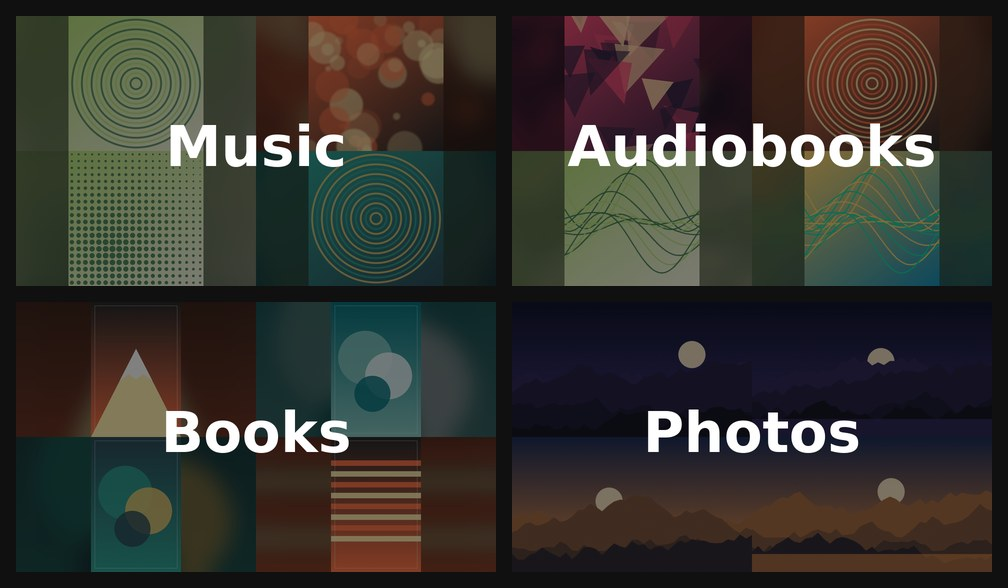
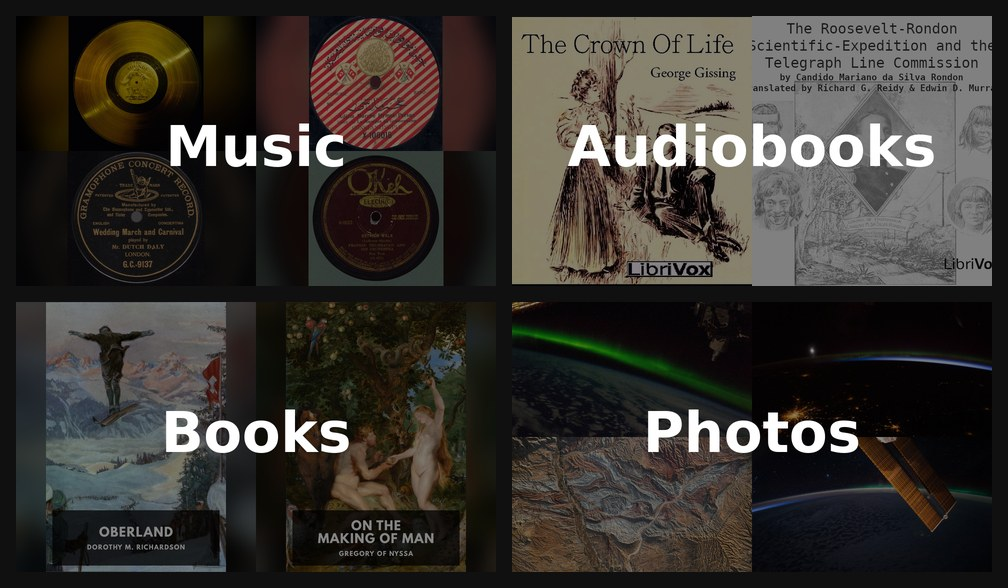
README: example cards from real, openly licensed artwork
Replace the generated example art with public-domain and CC0 images:
1910s-20s record labels and the Voyager Golden Record cover (Wikimedia
Commons, NASA), LibriVox and Standard Ebooks covers, and NASA photographs.
Adds build/fetch_example_art.py (downloads candidates with credits) and
render_examples.py --sources, image credits, and a note on why Books and
Audiobooks use two-tile layouts (titles printed where the card title goes).

diff --git a/build/fetch_example_art.py b/build/fetch_example_art.py
@@ -1,0 +1,188 @@
+#!/usr/bin/env python3
+"""Download openly licensed artwork for the README's example cards, with credits.
+
+    python build/fetch_example_art.py art/
+    python build/fetch_example_art.py art/ --only audiobooks --from-offset 13000   # top up one library
+    python build/render_examples.py out/ --sources art/ --icon-font MaterialIcons-Regular.ttf
+
+Writes art/<library>/*.jpg and art/credits.json (title, source page, licence per image).
+
+Sources, all public domain or CC0:
+- Books: Standard Ebooks covers (CC0; cover paintings are public domain).
+- Audiobooks: LibriVox cover art, hosted on the Internet Archive ("CD cover art ... in the public
+  domain", LibriVox copyright policy).
+- Music: record labels published before 1929 (public domain in the US) and NASA's Voyager
+  Golden Record cover, from Wikimedia Commons.
+- Photos: NASA photographs of Earth (NASA imagery is generally not copyrighted).
+"""
+
+import argparse
+import io
+import json
+import re
+import sys
+import urllib.parse
+import urllib.request
+from pathlib import Path
+
+from PIL import Image
+
+HEADERS = {"User-Agent": "TitleCardsReadme/0.1 (https://github.com/erstenor/jellyfin-plugin-title-cards)"}
+PER_LIBRARY = 10
+MUSIC_FILES = [
+    "File:The Sounds of Earth Record Cover - GPN-2000-001978.jpg",
+    "File:The Sounds of Earth - GPN-2000-001976.jpg",
+    "File:DutchDalyGandTlabel.jpg",
+    "File:Label of salam-e shah 1910.jpg",
+    "File:Jacob Hoffman Doina and Hora label.tif",
+    "File:Pussy Cat Rag Halfway House Orch Label OKeh.jpg",
+    "File:Ostrich Walk Tram Bix Okeh 40822.jpg",
+]
+MUSIC_SEARCH = 'Label of a 78 rpm disc recording "On Honolulu Bay"'
+NASA_QUERIES = ["earth observation landscape", "aurora from space station", "earth from orbit coastline"]
+
+
+def get(url, raw=False):
+    with urllib.request.urlopen(urllib.request.Request(url, headers=HEADERS), timeout=60) as response:
+        data = response.read()
+    return data if raw else json.loads(data)
+
+
+def save(out, library, name, data, credit, credits):
+    image = Image.open(io.BytesIO(data)).convert("RGB")
+    image.thumbnail((1600, 1600))
+    path = out / library / (re.sub(r"[^A-Za-z0-9]+", "-", name).strip("-")[:60] + ".jpg")
+    path.parent.mkdir(parents=True, exist_ok=True)
+    image.save(path, quality=92)
+    credits.setdefault(library, []).append({"file": path.name, **credit})
+    print(f"{library}: {credit['title']}")
+
+
+def commons(titles):
+    query = urllib.parse.urlencode({
+        "action": "query", "format": "json", "titles": "|".join(titles), "prop": "imageinfo",
+        "iiprop": "url|extmetadata", "iiurlwidth": "1600", "iiextmetadatafilter": "LicenseShortName|ObjectName|DateTimeOriginal",
+    })
+    return get("https://commons.wikimedia.org/w/api.php?" + query)["query"]["pages"].values()
+
+
+def music(out, credits):
+    search = get("https://commons.wikimedia.org/w/api.php?" + urllib.parse.urlencode({
+        "action": "query", "format": "json", "list": "search", "srsearch": MUSIC_SEARCH, "srnamespace": "6", "srlimit": "1"}))
+    titles = MUSIC_FILES + [hit["title"] for hit in search["query"]["search"]]
+    for page in commons(titles):
+        info = page["imageinfo"][0]
+        meta = info["extmetadata"]
+        if not meta.get("LicenseShortName", {}).get("value", "").startswith("Public domain"):
+            continue
+        name = re.sub(r"<[^>]+>", "", meta.get("ObjectName", {}).get("value", page["title"][5:]))
+        save(out, "music", name, get(info["thumburl"], raw=True),
+             {"title": name, "source": info["descriptionurl"], "license": "Public domain"}, credits)
+
+
+def books(out, credits):
+    feed = get("https://standardebooks.org/feeds/atom/new-releases", raw=True).decode("utf-8")
+    for entry in re.findall(r"<entry>(.*?)</entry>", feed, re.S)[:PER_LIBRARY]:
+        title = re.sub(r"<[^>]+>", "", re.search(r"<title[^>]*>(.*?)</title>", entry, re.S).group(1)).strip()
+        page = re.search(r'<link[^>]+href="(https://standardebooks.org/ebooks/[^"]+)"', entry).group(1)
+        thumb = re.search(r'(https://standardebooks.org/[^"]*cover-thumbnail\.jpg)', entry)
+        cover = thumb.group(1).replace("cover-thumbnail.jpg", "cover.jpg") if thumb else page + "/downloads/cover.jpg"
+        save(out, "books", title, get(cover, raw=True),
+             {"title": title, "source": page, "license": "CC0 (Standard Ebooks); painting public domain"}, credits)
+
+
+def audiobooks(out, credits, start=12000):
+    # Early catalogue entries have no Internet Archive link; later ones do. The feed is paged
+    # in small requests, as large extended requests can fail. Many items' covers are missing from
+    # Internet Archive storage, so this can take a while.
+    have = {entry["title"] for entry in credits.get("audiobooks", [])}
+    for offset in range(start, start + 6000, 20):
+        try:
+            books = get(f"https://librivox.org/api/feed/audiobooks?format=json&extended=1&limit=20&offset={offset}")["books"]
+        except Exception as error:
+            print(f"audiobooks: feed page {offset}: {error}", file=sys.stderr)
+            continue
+        for book in books:
+            if len(credits.get("audiobooks", [])) >= PER_LIBRARY:
+                return
+            identifier = (book.get("url_iarchive") or "").rstrip("/").split("/")[-1]
+            if not identifier or ".poem" in identifier or book["title"] in have:  # single poems mostly use a generic cover
+                continue
+            try:
+                metadata = get(f"https://archive.org/metadata/{identifier}")
+                files = metadata.get("files", [])
+                # The cover is <name>.jpg; skip thumbnails, the "itemimage" copy and the archive's own tile.
+                jpegs = [f for f in files if f.get("name", "").lower().endswith(".jpg")
+                         and not any(part in f["name"].lower() for part in ("thumb", "itemimage", "__ia"))]
+                if not jpegs:
+                    continue
+                cover = urllib.parse.quote(max(jpegs, key=lambda f: int(f.get("size", 0)))["name"])
+                # Storage servers sometimes fail for an item, so try each server it lists.
+                servers = dict.fromkeys([metadata.get("d2"), metadata.get("d1"), *(metadata.get("workable_servers") or [])])
+                urls = [f"https://{server}{metadata['dir']}/{cover}" for server in servers if server and metadata.get("dir")]
+                data = None
+                for url in urls + [f"https://archive.org/download/{identifier}/{cover}"]:
+                    try:
+                        data = get(url, raw=True)
+                        break
+                    except Exception:
+                        continue
+                if data is None or min(Image.open(io.BytesIO(data)).size) < 500:
+                    continue
+            except Exception as error:
+                print(f"audiobooks: {identifier}: {error}", file=sys.stderr)
+                continue
+            save(out, "audiobooks", book["title"], data,
+                 {"title": book["title"], "source": book.get("url_librivox") or book["url_iarchive"], "license": "Public domain (LibriVox)"}, credits)
+
+
+def photos(out, credits):
+    for query in NASA_QUERIES:
+        result = get("https://images-api.nasa.gov/search?" + urllib.parse.urlencode({"q": query, "media_type": "image"}))
+        for item in result["collection"]["items"][:6]:
+            if len(credits.get("photos", [])) >= PER_LIBRARY:
+                return
+            data = item["data"][0]
+            # The item's href is its asset list: URLs of the original and resized images.
+            assets = get(item["href"])
+            large = next((url for url in assets if url.endswith("~large.jpg")), None) or next((url for url in assets if url.endswith(".jpg")), None)
+            if not large:
+                continue
+            image = Image.open(io.BytesIO(get(large.replace("http://", "https://"), raw=True)))
+            if image.width / image.height < 1.3:
+                continue
+            buffer = io.BytesIO()
+            image.convert("RGB").save(buffer, "JPEG", quality=92)
+            save(out, "photos", data["title"], buffer.getvalue(),
+                 {"title": data["title"], "source": f"https://images.nasa.gov/details/{data['nasa_id']}", "license": "Public domain (NASA)"}, credits)
+
+
+def main():
+    parser = argparse.ArgumentParser(description=__doc__, formatter_class=argparse.RawDescriptionHelpFormatter)
+    parser.add_argument("out", type=Path, nargs="?", default=Path("art"))
+    parser.add_argument("--only", nargs="+", choices=["books", "audiobooks", "music", "photos"])
+    parser.add_argument("--from-offset", type=int, default=12000, help="LibriVox catalogue position to start at")
+    args = parser.parse_args()
+    out = args.out
+    out.mkdir(parents=True, exist_ok=True)
+    credits_path = out / "credits.json"
+    # Keep what earlier runs fetched, so one library can be topped up on its own.
+    credits = json.loads(credits_path.read_text()) if credits_path.exists() else {}
+    for fetch in (books, audiobooks, music, photos):
+        if args.only and fetch.__name__ not in args.only:
+            continue
+        if not args.only:
+            credits.pop(fetch.__name__, None)
+        try:
+            if fetch is audiobooks:
+                fetch(out, credits, args.from_offset)
+            else:
+                fetch(out, credits)
+        except Exception as error:  # keep whatever the other sources gave
+            print(f"{fetch.__name__}: {error}", file=sys.stderr)
+        credits_path.write_text(json.dumps(credits, indent=1))
+    print({library: len(items) for library, items in credits.items()})
+
+
+if __name__ == "__main__":
+    main()

diff --git a/build/render_examples.py b/build/render_examples.py
@@ -1,8 +1,8 @@
 #!/usr/bin/env python3
 """Render README example cards for library types without real artwork to hand.
 
-Generates original abstract artwork (album and audiobook covers, book covers, landscape
-"photos"), then builds cards from it with the same recipe as the plugin: text check behind the
+Uses openly licensed artwork from --sources (see fetch_example_art.py), or generates abstract
+artwork when no sources are given, then builds cards from it with the same recipe as the plugin: text check behind the
 title, largest fillable layout, square/portrait art shown whole on a blurred fill, alpha 0x78
 layer and the title in DejaVu Sans Bold 112px on Jellyfin's baseline rule.
 
@@ -10,12 +10,15 @@ Also draws Jellyfin's default card for a view with no image (used for Live TV in
 before/after image): the dark theme's colour for the name, with the Material icon centred.
 
     pip install pillow rapidocr onnxruntime
-    python build/render_examples.py out/ --icon-font path/to/MaterialIcons-Regular.ttf
+    python build/render_examples.py out/ --sources art/ --icon-font path/to/MaterialIcons-Regular.ttf
+
+With --sources, out/used.json lists the images each card uses, for credits.
 
 The icon font ships with jellyfin-web (material-design-icons-iconfont, Apache-2.0).
 """
 
 import argparse
+import json
 import logging
 import math
 import random
@@ -262,23 +265,36 @@ def main():
     parser = argparse.ArgumentParser(description=__doc__, formatter_class=argparse.RawDescriptionHelpFormatter)
     parser.add_argument("out", type=Path)
     parser.add_argument("--icon-font", required=True)
+    parser.add_argument("--sources", type=Path, help="folder with music/, audiobooks/, books/, photos/ artwork")
     parser.add_argument("--seed", type=int, default=12)
     args = parser.parse_args()
     args.out.mkdir(parents=True, exist_ok=True)
     rng = random.Random(args.seed)
     ocr = make_ocr()
 
-    libraries = {
-        "Music": [album_cover(rng, i % 6) for i in range(8)],
-        "Audiobooks": [album_cover(rng, (i + 3) % 6) for i in range(8)],
-        "Books": [book_cover(rng) for _ in range(8)],
-        "Photos": [landscape(rng) for _ in range(8)],
-    }
+    if args.sources:
+        libraries, names = {}, {}
+        for title in ("Music", "Audiobooks", "Books", "Photos"):
+            files = sorted((args.sources / title.lower()).glob("*.jpg"))
+            libraries[title] = [Image.open(file).convert("RGB") for file in files]
+            names.update({id(image): file.name for image, file in zip(libraries[title], files)})
+    else:
+        names = {}
+        libraries = {
+            "Music": [album_cover(rng, i % 6) for i in range(8)],
+            "Audiobooks": [album_cover(rng, (i + 3) % 6) for i in range(8)],
+            "Books": [book_cover(rng) for _ in range(8)],
+            "Photos": [landscape(rng) for _ in range(8)],
+        }
+    used = {}
     for title, images in libraries.items():
         rng.shuffle(images)
         tiles = pick(images, title, ocr)
         compose(tiles, title).save(args.out / f"example-{title.lower()}.png")
-        print(f"{title}: {len(tiles)} tiles")
+        used[title.lower()] = [names.get(id(image), "") for image, _ in tiles]
+        print(f"{title}: {len(tiles)} tiles from {len(images)} images")
+    if args.sources:
+        (args.out / "used.json").write_text(json.dumps(used, indent=1))
 
     # Material Icons "live_tv" is U+E639.
     default_card("Live TV", args.icon_font, "").save(args.out / "default-livetv.png")

diff --git a/README.md b/README.md
@@ -25,11 +25,16 @@ outer corners, clear of it:
 
 ![Before and after: Jellyfin's default library images and Title Cards collages](docs/images/before-after.jpg)
 
-Other library types, rendered with the same recipe from generated example artwork (not real
-releases): square album and audiobook art and portrait book covers are shown whole on a blurred
-fill rather than cropped:
+Other library types, rendered with the plugin's recipe from real, openly licensed artwork
+(public-domain record labels, LibriVox and Standard Ebooks covers, NASA photographs; credits
+below):
 
 ![Example cards for Music, Audiobooks, Books and Photos libraries](docs/images/examples.jpg)
+
+Books and Audiobooks came out with two tiles rather than four, which is the text filter at work:
+most covers print their title in the middle or along the bottom, right where the library name
+crosses a quarter tile, so the plugin uses a layout those covers can fill without lettering behind
+the title. Covers with text clear of the title, such as the record labels above, fill all four.
 
 ## Install
 
@@ -161,6 +166,7 @@ skipping an image. It never let through text that RapidOCR caught.
 | `build/package.py` | Builds the zip and updates `manifest.json` |
 | `build/make_parity_fixtures.py` | Makes fixtures for the detector parity test |
 | `build/make_logo.py` | Draws the logo (abstract tiles, no third-party artwork) |
+| `build/fetch_example_art.py` | Downloads openly licensed artwork for the example cards, with credits |
 | `build/render_examples.py` | Renders the README's example cards and Jellyfin's default no-image card |
 
 ## AI assistance
@@ -174,6 +180,27 @@ a live Jellyfin server, and review of the results were done by the maintainer
 
 Please judge the code on its merits and report anything that looks wrong; issues and pull requests
 are welcome whether or not you use AI tools yourself.
+
+## Image credits
+
+The example cards above use these public-domain and CC0 images:
+
+- **Music:** [The Sounds of Earth (Voyager Golden Record cover)](https://commons.wikimedia.org/wiki/File:The_Sounds_of_Earth_-_GPN-2000-001976.jpg), NASA;
+  record labels [Salam-e Shah (1910)](https://commons.wikimedia.org/wiki/File:Label_of_salam-e_shah_1910.jpg),
+  [Dutch Daly, Wedding March and Carnival](https://commons.wikimedia.org/wiki/File:DutchDalyGandTlabel.jpg) and
+  [Ostrich Walk, Okeh 40822](https://commons.wikimedia.org/wiki/File:Ostrich_Walk_Tram_Bix_Okeh_40822.jpg), via Wikimedia Commons
+- **Audiobooks:** LibriVox covers for [The Crown of Life](https://librivox.org/the-crown-of-life-by-george-gissing/) and
+  [The Roosevelt-Rondon Scientific Expedition and the Telegraph Line Commission](https://librivox.org/the-roosevelt-rondon-scientific-expedition-and-the-telegraph-line-commission-by-candido-mariano-da-silva-rondon/)
+- **Books:** Standard Ebooks covers for [Oberland](https://standardebooks.org/ebooks/dorothy-m-richardson/oberland) and
+  [On the Making of Man](https://standardebooks.org/ebooks/gregory-of-nyssa/on-the-making-of-man/william-moore_henry-austin-wilson)
+  (cover designs CC0, paintings public domain)
+- **Photos:** NASA, [iss066e146457](https://images.nasa.gov/details/iss066e146457),
+  [iss039e009160](https://images.nasa.gov/details/iss039e009160),
+  [Folded Rocks of Northwest Iran](https://images.nasa.gov/details/iss069-e-089946_lrg),
+  [iss052e004998](https://images.nasa.gov/details/iss052e004998)
+
+`build/fetch_example_art.py` downloads the full candidate set with a credit for each image, and
+`build/render_examples.py --sources` renders the cards from it.
 
 ## License
 

diff --git a/THIRD-PARTY-NOTICES.md b/THIRD-PARTY-NOTICES.md
@@ -10,7 +10,10 @@ The plugin package includes:
 
 Used from the Jellyfin server at runtime, not shipped: SkiaSharp (MIT), Jellyfin libraries (GPL).
 
-Development scripts only, not shipped: `build/make_parity_fixtures.py` and `build/render_examples.py`
+Development scripts only, not shipped: `build/make_parity_fixtures.py`, `build/fetch_example_art.py` and `build/render_examples.py`
 use Pillow (MIT-CMU), RapidOCR (Apache-2.0) and ONNX Runtime (MIT), installed separately with pip.
 `render_examples.py` draws the Live TV icon with Google's Material Icons font (Apache-2.0), taken
 from jellyfin-web's dependencies.
+
+The README's example cards use public-domain and CC0 images (Wikimedia Commons, LibriVox,
+Standard Ebooks, NASA), credited under "Image credits" in the README.
